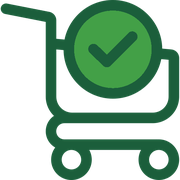
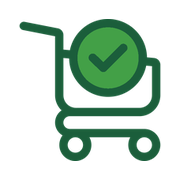
Add files via upload

diff --git a/admin.html b/admin.html
@@ -35,7 +35,7 @@ const hh=x=>x?new Date(x).toLocaleString('es-PY',{day:'2-digit',month:'2-digit',
 const num=v=>Number(String(v).replace(/\./g,'').replace(',','.'));
 const dec=v=>Number(String(v).trim().replace(',','.'));
 let T='hoy',F='',FK='',AF='',ED=null,REC={RE:[],RN:[]},IT=[],PR=[],US=[],usr=[],sel=null;
-let CP=null,CN=null,COMPS=[],PV=[],PQ='',PQ2='',IQ='',BKO=false,BK={},BQ='';
+let CP=null,CN=null,COMPS=[],PV=[],PQ='',PQ2='',IQ='',BKO=false,BK={},BQ='',UN=[],ITE=null,PRE=null;
 const fmtIn=el=>{const n=el.value.replace(/\D/g,'');el.value=n?fm(Number(n)):''};
 const uid=()=>(window.crypto&&crypto.randomUUID?crypto.randomUUID():Date.now().toString(36)+Math.random().toString(36).slice(2,12));
 let CB=null,CBO=false,CL=[],CQ='';
@@ -160,10 +160,12 @@ function cpGuardar(){
   const body={factura:CP.fac.trim(),monto,costos:CP.lin.map(l=>({item_id:l.item_id,costo_unit:num(l.costo||'')||0}))};
   if(CP.provId)body.proveedor_id=CP.provId;
   run(async()=>{await post('/api/admin/compras/'+CP.id,body,'PATCH');CP=null})}
-function cnAbrir(){CN={prov:'',provId:null,fac:'',fecha:'',monto:'',lin:[]};CP=null;PQ='';IQ='';show('comp').then(()=>window.scrollTo(0,0))}
+function cnAbrir(){CN={prov:'',provId:null,fac:'',fecha:'',monto:'',lin:[],ni:null};CP=null;PQ='';IQ='';show('comp').then(()=>window.scrollTo(0,0))}
 const cnDraw=()=>{const e=$('#cnx');if(e)e.innerHTML=cnHTML()};
-const itPick=()=>{const q=norm(IQ).split(/\s+/).filter(Boolean);
-  return IT.filter(x=>q.every(w=>norm(x.nombre).includes(w))&&!CN.lin.some(l=>l.item_id===x.id)).slice(0,40).map(x=>`<div class=it style="cursor:pointer;margin-bottom:6px" onclick="cnAdd(${x.id})"><div class=m>${esc(x.nombre)} <small class=mut>(${esc(x.unidad)})</small></div></div>`).join('')||'<p class=mut>Sin resultados</p>'};
+const itPick=()=>{const q=norm(IQ).split(/\s+/).filter(Boolean),coincide=x=>q.every(w=>norm(x.nombre).includes(w));
+  const l=IT.filter(x=>coincide(x)&&!CN.lin.some(r=>r.item_id===x.id));
+  return l.slice(0,40).map(x=>`<div class=it style="cursor:pointer;margin-bottom:6px" onclick="cnAdd(${x.id})"><div class=m>${esc(x.nombre)} <small class=mut>(${esc(x.unidad)})</small></div></div>`).join('')
+   +(IQ.trim().length>=2&&!IT.some(coincide)?`<p class=mut style="margin:4px 0">No existe ese item.</p><button class="bt s" onclick="cnNi()">+ Crear item «${esc(IQ.trim())}»</button>`:'')||'<p class=mut>Sin resultados</p>'};
 function cnAdd(id){const x=IT.find(v=>v.id===id);CN.lin.push({item_id:id,nombre:x.nombre,unidad:x.unidad,cantidad:'1',costo:''});IQ='';cnDraw()}
 function cnHTML(){
   return `<b>Cargar compra</b> <span class=mut>· factura completa, con costos. No sale de la caja de ningún turno.</span><div style="margin-top:8px"></div>
@@ -172,7 +174,7 @@ function cnHTML(){
   <p class=mut style="margin:2px 0 10px"><small>Si dejás la fecha vacía se toma hoy.</small></p>
   <b>Items de la factura</b>
   ${CN.lin.map((l,i)=>`<div class=cd style="background:#fff;padding:8px 10px;margin:6px 0"><div class=rr><span style="flex:1 1 150px"><b>${esc(l.nombre)}</b> <span class=mut>(${esc(l.unidad)})</span></span><button class="bt s r" onclick="CN.lin.splice(${i},1);cnDraw()">✕</button></div><div class=rr><label class=mut style="flex:1 1 90px">Cantidad<br><input inputmode=decimal value="${esc(l.cantidad)}" oninput="CN.lin[${i}].cantidad=this.value" style="margin:4px 0 0;width:100%"></label><label class=mut style="flex:1 1 130px">Costo por ${esc(l.unidad)} (Gs)<br><input inputmode=numeric value="${esc(l.costo)}" oninput="fmtIn(this);CN.lin[${i}].costo=this.value" style="margin:4px 0 0;width:100%"></label></div></div>`).join('')}
-  <input type=search placeholder="Buscar item para agregar" value="${esc(IQ)}" oninput="IQ=this.value;$('#cnl').innerHTML=itPick()" style="width:100%"><div id=cnl style="max-height:220px;overflow-y:auto">${itPick()}</div>
+  ${CN.ni?niHTML():''}<input type=search placeholder="Buscar item para agregar" value="${esc(IQ)}" oninput="IQ=this.value;$('#cnl').innerHTML=itPick()" style="width:100%"><div id=cnl style="max-height:220px;overflow-y:auto">${itPick()}</div>
   <br><button class="bt ok" onclick="cnGuardar()">Guardar compra</button> <button class=bt onclick="CN=null;show('comp')">Cancelar</button>`}
 function cnGuardar(){
   const monto=num(CN.monto||'');if(!CN.provId)return alert('Elegí el proveedor');if(!CN.fac.trim()||!(monto>0))return alert('Falta la factura o el monto');
@@ -192,6 +194,33 @@ function bkAbrir(){BKO=!BKO;BK={};BQ='';show('stock')}
 const bkRows=()=>{const t=norm(BQ).split(/\s+/).filter(Boolean);return IT.filter(i=>t.every(w=>norm(i.nombre).includes(w))).map(i=>`<div class=rr><span style="flex:1 1 150px"><b>${esc(i.nombre)}</b> <span class=mut>· hay ${i.stock} ${esc(i.unidad)}</span></span><input inputmode=decimal placeholder="+ cantidad" value="${BK[i.id]||''}" oninput="BK[${i.id}]=dec(this.value)||0" style="width:110px"></div>`).join('')||'<p class=mut>Sin resultados</p>'};
 const bkBar=()=>`<div class=bar><button class="bt ok" onclick="bkAbrir()">${BKO?'Cerrar carga del día':'+ Carga del día'}</button><span class=mut>Sumá de una vez lo que entra de varios items</span></div>${BKO?`<div class=cd style="border:2px solid var(--ok)"><b>Carga del día</b> <span class=mut>· escribí cuánto entra de cada item; se suma al stock</span><input type=search placeholder="Buscar item" style="width:100%;margin-top:8px" oninput="BQ=this.value;$('#bkl').innerHTML=bkRows()"><div id=bkl style="max-height:360px;overflow-y:auto">${bkRows()}</div><br><button class="bt ok" onclick="bkGuardar()">Sumar al stock</button></div>`:''}`;
 function bkGuardar(){const e=Object.entries(BK).filter(([,q])=>q>0).map(([id,q])=>({item_id:+id,cantidad:q}));if(!e.length)return alert('No cargaste ninguna cantidad');run(async()=>{await post('/api/admin/stock/entradas',{entradas:e});BKO=false;BK={}})}
+/* unidades de medida: lista desplegable; se puede agregar una nueva al momento */
+const unOpts=sel=>{const v=String(sel||'unidad').toLowerCase(),l=UN.includes(v)?UN:[...UN,v];return l.map(u=>`<option value="${esc(u)}" ${u===v?'selected':''}>${esc(u)}</option>`).join('')+'<option value="__nueva">➕ Agregar nueva unidad…</option>'};
+const unSel=(id,sel,cb)=>`<select id=${id} onfocus="this.dataset.prev=this.value" onchange="unChange(this,'${cb||''}')">${unOpts(sel)}</select>`;
+async function unChange(el,cb){
+  if(el.value==='__nueva'){
+    const n=(prompt('Nombre de la nueva unidad de medida (ej: paquete)')||'').trim().toLowerCase();
+    if(!n){el.innerHTML=unOpts(el.dataset.prev);return}
+    try{await post('/api/admin/unidades',{nombre:n});if(!UN.includes(n)){UN.push(n);UN.sort()}}catch(e){alert(e.message);el.innerHTML=unOpts(el.dataset.prev);return}
+    el.innerHTML=unOpts(n)}
+  el.dataset.prev=el.value;if(cb&&window[cb])window[cb](el.value)}
+/* editar items */
+function iteAbrir(id){const i=IT.find(x=>x.id===id);ITE={id,nombre:i.nombre,unidad:String(i.unidad||'unidad').toLowerCase(),minimo:String(i.minimo),paso:String(i.paso)};show('stock').then(()=>window.scrollTo(0,0))}
+function iteUn(v){if(ITE)ITE.unidad=v}
+const iteHTML=()=>`<div class=cd style="border:2px solid var(--ok)"><b>Editar item</b> <span class=mut>· el stock se cambia con Entrada, Merma o la Carga del día</span><div style="margin-top:8px"></div><label class=mut>Nombre<br><input value="${esc(ITE.nombre)}" oninput="ITE.nombre=this.value" style="width:100%"></label><label class=mut>Unidad de medida<br>${unSel('ite_u',ITE.unidad,'iteUn')}</label><br><label class=mut>Stock mínimo (avisa en amarillo)<br><input inputmode=decimal value="${esc(ITE.minimo)}" oninput="ITE.minimo=this.value"></label><label class=mut>Salto de los botones + y − al contar<br><input inputmode=decimal value="${esc(ITE.paso)}" oninput="ITE.paso=this.value"></label><br><button class="bt ok" onclick="iteGuardar()">Guardar</button> <button class=bt onclick="ITE=null;show('stock')">Cancelar</button></div>`;
+function iteGuardar(){const n=ITE.nombre.trim(),mi=dec(ITE.minimo||0),pa=dec(ITE.paso||1);if(n.length<2)return alert('Falta el nombre');if(!(mi>=0)||!(pa>0))return alert('Revisá el mínimo y el salto');
+  run(async()=>{await post('/api/admin/items/'+ITE.id,{nombre:n,unidad:ITE.unidad,minimo:mi,paso:pa},'PATCH');ITE=null})}
+/* editar productos (nombre y precio) */
+function prEdAbrir(id){const p=PR.find(x=>x.id===id);PRE={id,nombre:p.nombre,precio:fm(p.precio)};show('prod').then(()=>window.scrollTo(0,0))}
+const preHTML=()=>`<div class=cd style="border:2px solid var(--ok)"><b>Editar producto</b> <span class=mut>· la receta se cambia con el botón Receta</span><div style="margin-top:8px"></div><label class=mut>Nombre<br><input value="${esc(PRE.nombre)}" oninput="PRE.nombre=this.value" style="width:100%"></label><label class=mut>Precio (Gs)<br><input inputmode=numeric value="${esc(PRE.precio)}" oninput="fmtIn(this);PRE.precio=this.value"></label><br><button class="bt ok" onclick="preGuardar()">Guardar</button> <button class=bt onclick="PRE=null;show('prod')">Cancelar</button></div>`;
+function preGuardar(){const n=PRE.nombre.trim(),pr=num(PRE.precio||'');if(n.length<2||!(pr>=0))return alert('Falta nombre o precio');
+  run(async()=>{await post('/api/admin/productos/'+PRE.id,{nombre:n,precio:pr},'PATCH');PRE=null})}
+/* compras: crear un item que todavía no existe */
+function cnNi(){CN.ni={nombre:IQ.trim(),unidad:'unidad',minimo:'0'};cnDraw()}
+function cnUn(v){if(CN.ni)CN.ni.unidad=v}
+const niHTML=()=>`<div class=cd style="background:#fff;border:2px solid var(--ok)"><b>Item nuevo</b> <span class=mut>· se crea con stock 0; esta compra lo suma</span><div style="margin-top:8px"></div><label class=mut>Nombre<br><input value="${esc(CN.ni.nombre)}" oninput="CN.ni.nombre=this.value" style="width:100%"></label><label class=mut>Unidad de medida<br>${unSel('cn_u',CN.ni.unidad,'cnUn')}</label><br><label class=mut>Stock mínimo<br><input inputmode=decimal value="${esc(CN.ni.minimo)}" oninput="CN.ni.minimo=this.value"></label><br><button class="bt ok" onclick="cnNiGuardar()">Crear y agregar a la compra</button> <button class=bt onclick="CN.ni=null;cnDraw()">Cancelar</button></div>`;
+async function cnNiGuardar(){const n=CN.ni.nombre.trim();if(n.length<2)return alert('Falta el nombre');
+  try{const r=await post('/api/admin/items',{nombre:n,unidad:CN.ni.unidad,stock:0,minimo:dec(CN.ni.minimo||0)||0});if(!IT.some(x=>x.id===r.id))IT.push(r);CN.ni=null;cnAdd(r.id)}catch(e){alert(e.message)}}
 function usNuevo(){const n=$('#un').value.trim(),p=$('#up').value.trim();if(n.length<2||p.length<4)return alert('Falta nombre o PIN');
   run(()=>post('/api/admin/usuarios',{nombre:n,pin:p,rol:$('#ur').value}))}
 function usPin(id){const p=prompt('Nuevo PIN (4 a 8 números; administrador 6 a 8)');if(p)run(()=>post('/api/admin/usuarios/'+id,{pin:p},'PATCH'))}
@@ -226,17 +255,17 @@ turnos:async()=>{
   return ts.map(t=>{const c=!!t.cerrado_en,df=t.items.filter(i=>i.diferencia!==0).length;
     return `<div class=cd><b>Turno #${t.id} · ${esc(t.empleada)}</b><br><small class=mut>${hh(t.abierto_en)} → ${c?hh(t.cerrado_en):'<b>ABIERTO</b>'}</small><div class=kv><div><span>Fondo</span><b>${gs(t.fondo)}</b></div>${c?`<div><span>Esperado</span><b>${gs(t.esperado)}</b></div><div><span>Contado</span><b>${gs(t.contado)}</b></div><div><span>Diferencia</span><b class="${t.diferencia<0?'neg':t.diferencia>0?'pos':''}">${t.diferencia>0?'+':''}${gs(t.diferencia)}</b></div><div><span>POS (cierre / app)</span>${posTxt(t)}</div><div><span>Mercadería</span>${df?`<b class=neg>${df} con diferencia</b>`:'<b>Sin diferencias</b>'}</div>`:''}</div></div>`}).join('')||'<p class=mut>Sin turnos</p>'},
 stock:async()=>{
-  IT=await A('/api/stock');
-  return bkBar()+IT.map(i=>`<div class=it><div class=m><span style="color:${i.estado==='rojo'?'var(--bad)':i.estado==='amarillo'?'var(--cr)':'var(--ok)'}">●</span> <b>${esc(i.nombre)}</b> <small class=mut>(${esc(i.unidad)})</small><br><small>Stock <b>${i.stock}</b> · Mínimo ${i.minimo}</small></div><div class=a><button class="bt s" onclick="ajuste(${i.id},'entrada')">+ Entrada</button><button class="bt s r" onclick="ajuste(${i.id},'merma')">− Merma</button></div></div>`).join('')+`<h2>Item nuevo</h2><div class=cd><input id=in placeholder="Nombre"><input id=iu placeholder="Unidad (unidad, litro, kilo…)"><input id=is placeholder="Stock inicial" size=10><input id=im placeholder="Mínimo" size=8><input id=ip placeholder="Paso botones (1)" size=10><button class="bt ok" onclick="itemNuevo()">Agregar</button></div>`},
+  [IT,UN]=await Promise.all([A('/api/stock'),A('/api/unidades')]);
+  return bkBar()+(ITE?iteHTML():'')+IT.map(i=>`<div class=it><div class=m><span style="color:${i.estado==='rojo'?'var(--bad)':i.estado==='amarillo'?'var(--cr)':'var(--ok)'}">●</span> <b>${esc(i.nombre)}</b> <small class=mut>(${esc(i.unidad)})</small><br><small>Stock <b>${i.stock}</b> · Mínimo ${i.minimo}</small></div><div class=a><button class="bt s" onclick="ajuste(${i.id},'entrada')">+ Entrada</button><button class="bt s r" onclick="ajuste(${i.id},'merma')">− Merma</button><button class="bt s" onclick="iteAbrir(${i.id})">Editar</button></div></div>`).join('')+`<h2>Item nuevo</h2><div class=cd><input id=in placeholder="Nombre"><label class=mut>Unidad de medida </label>${unSel('iu','unidad','')}<input id=is placeholder="Stock inicial" size=10><input id=im placeholder="Mínimo" size=8><input id=ip placeholder="Paso botones (1)" size=10><button class="bt ok" onclick="itemNuevo()">Agregar</button></div>`},
 comp:async()=>{
-  [COMPS,IT,PV]=await Promise.all([A('/api/admin/compras'),A('/api/stock'),A('/api/admin/proveedores')]);
+  [COMPS,IT,PV,UN]=await Promise.all([A('/api/admin/compras'),A('/api/stock'),A('/api/admin/proveedores'),A('/api/unidades')]);
   const pend=COMPS.filter(c=>c.falta_costos&&!c.anulado).length;
   return `${CN?`<div class=cd id=cnx style="border:2px solid var(--ok)">${cnHTML()}</div>`:''}${CP?`<div class=cd id=cpx style="border:2px solid var(--ok)">${cpHTML()}</div>`:''}
   <div class=bar><button class="bt ok" onclick="cnAbrir()">+ Cargar compra</button><span class=mut>${pend?`<b class=neg>${pend} compra(s) sin costos</b> · tocá "Completar"`:'Todas las compras tienen costos'}</span></div>
   ${COMPS.map(c=>`<div class="it ${c.anulado?'an':''}"><div class=m><b>${esc(c.proveedor)}</b> <span class=mut>· Factura ${esc(c.factura)} · ${hh(c.creado_en)} · ${esc(c.empleada)}</span>${c.falta_costos&&!c.anulado?' <b class=neg>· FALTAN COSTOS</b>':''}<br><small class=mut>${c.lineas.map(l=>`${l.cantidad} ${esc(l.unidad)} ${esc(l.nombre)}${l.costo_unit?' × '+gs(l.costo_unit):''}`).join(', ')} · ${c.de_caja?'pagada de caja':c.turno_id?'no salió de la caja':'cargada por administración'}</small></div><div class=a><b>${gs(c.monto)}</b>${c.anulado?'':`<button class="bt s" onclick="cpEdit(${c.id})">Completar</button><button class="bt s r" onclick="an('compras',${c.id})">Anular</button>`}</div></div>`).join('')||'<p class=mut>Sin compras</p>'}`},
 prod:async()=>{
   [IT,PR]=await Promise.all([A('/api/stock'),A('/api/admin/productos')]);
-  return `${CBO?`<div class=cd id=cbx style="border:2px solid var(--ok)">${cbHTML()}</div>`:''}${ED?`<div class=cd style="border:2px solid var(--ok)"><b>Receta de ${esc((PR.find(p=>p.id===ED)||{}).nombre||'')}</b> <span class=mut>· lo que descuenta de Stock por cada unidad vendida</span><div id=rec_RE style="margin-top:8px">${recEd('RE')}</div><br><button class="bt ok" onclick="edGuardar()">Guardar receta</button> <button class=bt onclick="ED=null;show('prod')">Cancelar</button></div>`:''}${PR.map(p=>`<div class="it ${p.activo?'':'an'}"><div class=m><b>${esc(p.nombre)}</b>${p.activo?'':' <small>(desactivado)</small>'} · ${gs(p.precio)}<br><small class=mut>${p.combo?(p.variable?'Combo variable: ':'Combo: ')+esc((p.partes||[]).map(pt=>(pt.cantidad>1?pt.cantidad+'× ':'')+(pt.nombre?pt.nombre+': ':'')+pt.opciones.map(o=>o.nombre).join(' o ')).join('  +  ')||'(sin componentes: editalo)'):esc(recTxt(p))||'Sin receta'}</small></div><div class=a><button class="bt s" onclick="prPrecio(${p.id})">Precio</button>${p.combo?`<button class="bt s" onclick="cbEdit(${p.id})">Editar combo</button>`:`<button class="bt s" onclick="prRec(${p.id})">Receta</button>`}<button class="bt s" onclick="prAct(${p.id},${!p.activo})">${p.activo?'Desactivar':'Activar'}</button></div></div>`).join('')}<h2>Combo</h2><div class=cd><p class=mut style="margin-top:0">Junta dos o más productos en uno, con precio fijo. Puede ser fijo (ej: Almuerzo económico = guiso + jugo) o variable (ej: Almuerzo con varias combinaciones). Primero cargá los productos sueltos.</p><button class="bt ok" onclick="cbNuevo()">+ Combo nuevo</button></div><h2>Producto nuevo</h2><div class=cd><input id=pn placeholder="Nombre"><input id=pp placeholder="Precio" size=10 inputmode=numeric oninput="fmtIn(this)"><label style="display:block;margin:6px 0"><input type=checkbox id=pc checked onchange="$('#pcs').style.display=this.checked?'block':'none'" style="width:auto;margin:0 8px 0 0"><b>Controlar stock de este producto</b> <span class=mut>(crea un item con el mismo nombre y descuenta 1 por cada venta)</span></label><div id=pcs><input id=psi placeholder="Stock inicial" inputmode=decimal size=10><input id=pmi placeholder="Stock mínimo" inputmode=decimal size=10></div><p class=mut style="margin:4px 0">Receta (opcional, solo para productos armados con varios items): qué items descuenta cada unidad vendida</p><div id=rec_RN>${recEd('RN')}</div><br><button class="bt ok" onclick="prNuevo()">Agregar</button><p class=mut><small>Los items se eligen de la lista de Stock. Para muchos productos a la vez usá Importar Excel.</small></p></div>`},
+  return `${PRE?preHTML():''}${CBO?`<div class=cd id=cbx style="border:2px solid var(--ok)">${cbHTML()}</div>`:''}${ED?`<div class=cd style="border:2px solid var(--ok)"><b>Receta de ${esc((PR.find(p=>p.id===ED)||{}).nombre||'')}</b> <span class=mut>· lo que descuenta de Stock por cada unidad vendida</span><div id=rec_RE style="margin-top:8px">${recEd('RE')}</div><br><button class="bt ok" onclick="edGuardar()">Guardar receta</button> <button class=bt onclick="ED=null;show('prod')">Cancelar</button></div>`:''}${PR.map(p=>`<div class="it ${p.activo?'':'an'}"><div class=m><b>${esc(p.nombre)}</b>${p.activo?'':' <small>(desactivado)</small>'} · ${gs(p.precio)}<br><small class=mut>${p.combo?(p.variable?'Combo variable: ':'Combo: ')+esc((p.partes||[]).map(pt=>(pt.cantidad>1?pt.cantidad+'× ':'')+(pt.nombre?pt.nombre+': ':'')+pt.opciones.map(o=>o.nombre).join(' o ')).join('  +  ')||'(sin componentes: editalo)'):esc(recTxt(p))||'Sin receta'}</small></div><div class=a><button class="bt s" onclick="${p.combo?`prPrecio(${p.id})`:`prEdAbrir(${p.id})`}">${p.combo?'Precio':'Editar'}</button>${p.combo?`<button class="bt s" onclick="cbEdit(${p.id})">Editar combo</button>`:`<button class="bt s" onclick="prRec(${p.id})">Receta</button>`}<button class="bt s" onclick="prAct(${p.id},${!p.activo})">${p.activo?'Desactivar':'Activar'}</button></div></div>`).join('')}<h2>Combo</h2><div class=cd><p class=mut style="margin-top:0">Junta dos o más productos en uno, con precio fijo. Puede ser fijo (ej: Almuerzo económico = guiso + jugo) o variable (ej: Almuerzo con varias combinaciones). Primero cargá los productos sueltos.</p><button class="bt ok" onclick="cbNuevo()">+ Combo nuevo</button></div><h2>Producto nuevo</h2><div class=cd><input id=pn placeholder="Nombre"><input id=pp placeholder="Precio" size=10 inputmode=numeric oninput="fmtIn(this)"><label style="display:block;margin:6px 0"><input type=checkbox id=pc checked onchange="$('#pcs').style.display=this.checked?'block':'none'" style="width:auto;margin:0 8px 0 0"><b>Controlar stock de este producto</b> <span class=mut>(crea un item con el mismo nombre y descuenta 1 por cada venta)</span></label><div id=pcs><input id=psi placeholder="Stock inicial" inputmode=decimal size=10><input id=pmi placeholder="Stock mínimo" inputmode=decimal size=10></div><p class=mut style="margin:4px 0">Receta (opcional, solo para productos armados con varios items): qué items descuenta cada unidad vendida</p><div id=rec_RN>${recEd('RN')}</div><br><button class="bt ok" onclick="prNuevo()">Agregar</button><p class=mut><small>Los items se eligen de la lista de Stock. Para muchos productos a la vez usá Importar Excel.</small></p></div>`},
 pers:async()=>{
   const[us,cl,pvs]=await Promise.all([A('/api/admin/usuarios'),A('/api/clientes'),A('/api/admin/proveedores')]);CL=cl;CQ='';PV=pvs;PQ2='';
   return `<h2>Usuarios</h2>${us.map(u=>`<div class="it ${u.activo?'':'an'}"><div class=m><b>${esc(u.nombre)}</b> <span class=mut>· ${u.rol}${u.activo?'':' · desactivado'}</span></div><div class=a><button class="bt s" onclick="usPin(${u.id})">Cambiar PIN</button><button class="bt s" onclick="usAct(${u.id},${!u.activo})">${u.activo?'Desactivar':'Activar'}</button></div></div>`).join('')}<div class=cd><input id=un placeholder="Nombre"><input id=up type=password inputmode=numeric placeholder="PIN" size=10><select id=ur><option value=empleada>Empleada</option><option value=admin>Administrador</option></select><button class="bt ok" onclick="usNuevo()">Agregar usuario</button></div>
@@ -244,7 +273,7 @@ pers:async()=>{
 imp:async()=>`<div class=cd><p>Subí la planilla con las hojas <b>Items</b> y <b>Productos</b>. Si una fila tiene error no se carga nada y te indica cuál corregir. El stock de items que ya existen no se modifica.</p><p><a href="plantilla-carga-cantina.xlsx">Descargar la planilla modelo</a></p><input type=file id=fx accept=".xlsx"><button class="bt ok" onclick="subir()">Subir</button><div id=ri></div></div>`,
 aud:async()=>{
   const[au,us,st]=await Promise.all([A('/api/admin/auditoria?limite=300'),A('/api/admin/usuarios'),A('/api/stock')]);const nm=Object.fromEntries(us.map(u=>[u.id,u.nombre])),IM=Object.fromEntries(st.map(i=>[i.id,i.nombre]));
-  const L={venta_anulada:'Venta anulada',pago_anulado:'Cobro anulado',gasto_anulado:'Gasto anulado',turno_abierto:'Turno abierto',turno_cerrado:'Caja cerrada',gasto:'Gasto cargado',usuario_nuevo:'Usuario creado',usuario_editado:'Usuario modificado',producto_nuevo:'Producto creado',producto_editado:'Producto modificado',item_nuevo:'Item creado',stock_entrada:'Entrada de stock',stock_merma:'Merma de stock',importacion_excel:'Importación de Excel',cliente_nuevo:'Cliente creado',cliente_editado:'Cliente modificado',compra:'Compra de mercadería',compra_anulada:'Compra anulada',compra_editada:'Compra modificada',proveedor_nuevo:'Proveedor creado',proveedor_editado:'Proveedor modificado',stock_entradas:'Carga de stock del día',pin_cliente:'PIN de cliente'};
+  const L={venta_anulada:'Venta anulada',pago_anulado:'Cobro anulado',gasto_anulado:'Gasto anulado',turno_abierto:'Turno abierto',turno_cerrado:'Caja cerrada',gasto:'Gasto cargado',usuario_nuevo:'Usuario creado',usuario_editado:'Usuario modificado',producto_nuevo:'Producto creado',producto_editado:'Producto modificado',item_nuevo:'Item creado',stock_entrada:'Entrada de stock',stock_merma:'Merma de stock',importacion_excel:'Importación de Excel',cliente_nuevo:'Cliente creado',cliente_editado:'Cliente modificado',compra:'Compra de mercadería',compra_anulada:'Compra anulada',compra_editada:'Compra modificada',proveedor_nuevo:'Proveedor creado',item_editado:'Item modificado',unidad_nueva:'Unidad de medida nueva',proveedor_editado:'Proveedor modificado',stock_entradas:'Carga de stock del día',pin_cliente:'PIN de cliente'};
   const MK=new Set(['monto','fondo','diferencia','total','precio','precio anterior']);
   const val=(k,v)=>k==='pos'?['debito','credito'].filter(x=>v[x]).map(x=>`${x==='debito'?'Débito':'Crédito'}: app ${gs(v[x].app)} · POS ${gs(v[x].lote)} · dif. ${gs(v[x].diferencia)}`).join(' | '):MK.has(k)&&typeof v==='number'?gs(v):v&&typeof v==='object'?JSON.stringify(v):v;
   const val2=(k,v)=>typeof v==='boolean'?(v?'sí':'no'):Array.isArray(v)?(k==='receta'?v.map(r=>(IM[r.item_id]||'?')+' ×'+r.cantidad).join('; '):v.length+' elemento(s) (formato anterior)'):val(k,v);

diff --git a/index.html b/index.html
@@ -46,8 +46,7 @@ table{width:100%;border-collapse:collapse;font-size:15px}td,th{padding:8px 4px;t
 .pos{color:var(--okink)}.neg{color:var(--bad)}
 .qi{width:84px;min-height:50px;margin:0;padding:0 4px;text-align:center;font-weight:700;font-size:21px}
 .mi{position:relative}.mi span{position:absolute;right:16px;top:14px;font-size:18px;color:var(--soft)}.mi input{padding-right:56px}
-@media(min-width:700px){#app,.est,.bar{max-width:880px}.grid{grid-template-columns:repeat(3,1fr)}.qa{grid-template-columns:repeat(4,1fr)}}
-@media(min-width:1100px){#app,.est,.bar{max-width:1000px}.grid{grid-template-columns:repeat(4,1fr)}}
+@media(min-width:700px){html,body{background:#E4EDE4}#app{background:var(--bg);min-height:100vh;box-shadow:0 0 0 1px #D5E3D5,0 12px 40px rgba(27,94,59,.10)}#est{background:#E4EDE4}.est{border-radius:0 0 14px 14px}.bar{box-shadow:0 -1px 0 var(--line)}}
 </style></head><body><div id="est"></div><div id="app"></div>
 <script src="config.js"></script>
 <script>

diff --git a/sw.js b/sw.js
@@ -1,5 +1,5 @@
 // Guarda la app en el aparato para que abra sin internet. Primero busca versión nueva; si no hay red, usa la guardada.
-const V = 'cantina-v19';
+const V = 'cantina-v20';
 const ARCH = ['./', 'index.html', 'admin.html', 'config.js', 'manifest.webmanifest', 'icon-192.png', 'icon-512.png', 'icon-180.png', 'icon-claro.png'];
 self.addEventListener('install', e => e.waitUntil(caches.open(V).then(c => c.addAll(ARCH)).then(() => self.skipWaiting())));
 self.addEventListener('activate', e => e.waitUntil(caches.keys().then(k => Promise.all(k.filter(x => x !== V).map(x => caches.delete(x)))).then(() => self.clients.claim())));
